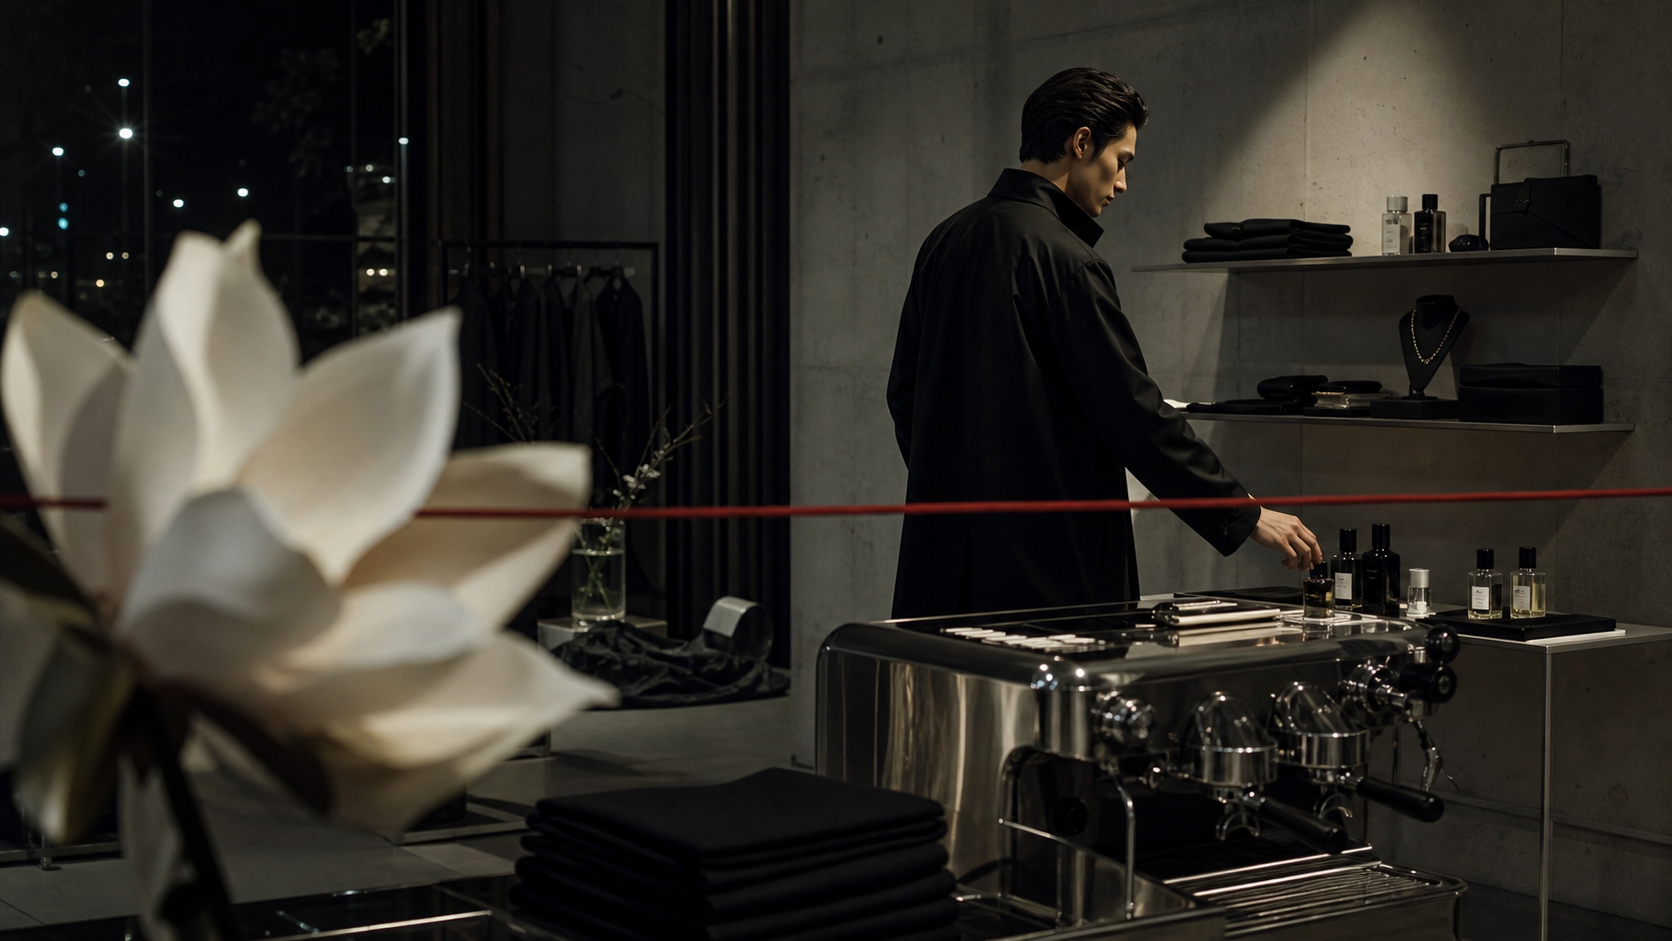
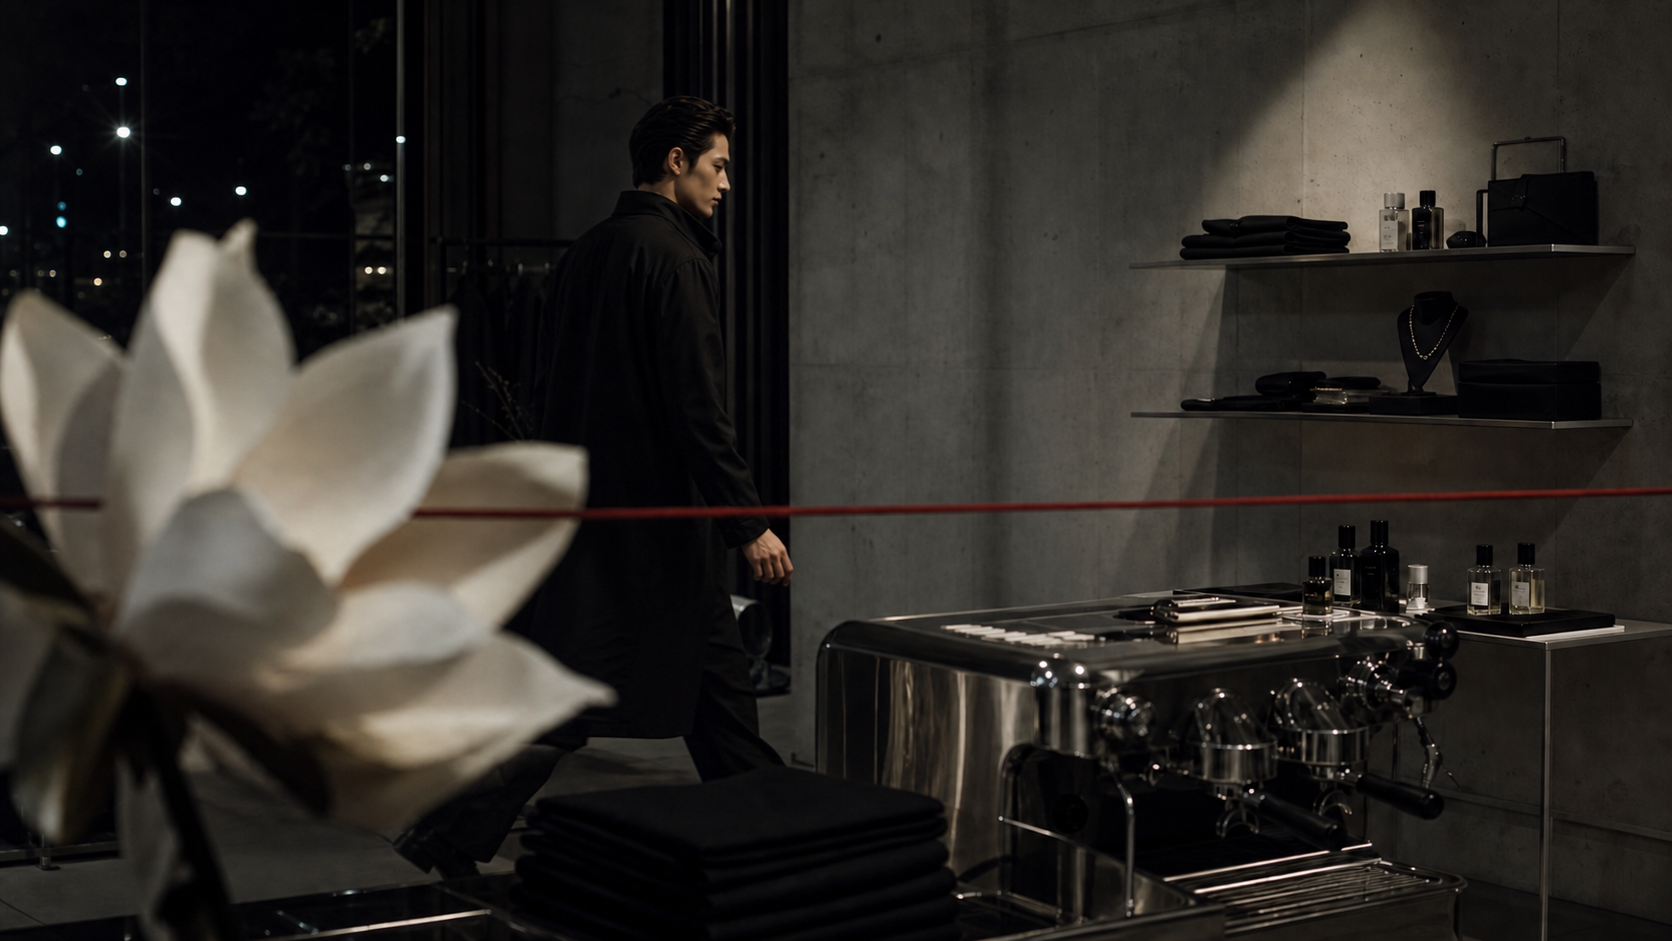
Refine hero scale and motion reel

diff --git a/src/app/globals.css b/src/app/globals.css
@@ -205,28 +205,28 @@ a {
 }
 
 .kf-hero-bottom h1 {
-  max-width: 1280px;
+  max-width: 980px;
   color: #d8ff3e;
   font-family: "Space Grotesk", sans-serif;
-  font-size: clamp(4.6rem, 11.7vw, 13.5rem);
+  font-size: clamp(3.8rem, 7.9vw, 8.8rem);
   font-weight: 800;
-  letter-spacing: -0.08em;
-  line-height: 0.76;
+  letter-spacing: -0.065em;
+  line-height: 0.84;
   text-transform: uppercase;
 }
 
 .kf-hero-actions {
   display: grid;
-  grid-template-columns: minmax(0, 34rem) auto;
+  grid-template-columns: minmax(0, 31rem) auto;
   gap: 1rem;
   align-items: end;
-  margin-top: clamp(1rem, 2vw, 1.35rem);
+  margin-top: clamp(0.75rem, 1.4vw, 1rem);
 }
 
 .kf-hero-actions p {
   margin: 0;
   color: rgb(245 241 232 / 0.82);
-  font-size: clamp(1rem, 1.4vw, 1.28rem);
+  font-size: clamp(0.95rem, 1.18vw, 1.08rem);
   font-weight: 600;
   line-height: 1.35;
 }
@@ -852,7 +852,7 @@ a {
   }
 
   .kf-hero-video {
-    object-position: 57% center;
+    object-position: 43% center;
   }
 
   .kf-hero-meta span:nth-child(3) {
@@ -860,8 +860,8 @@ a {
   }
 
   .kf-hero-bottom h1 {
-    font-size: clamp(4.15rem, 19vw, 5.8rem);
-    line-height: 0.78;
+    font-size: clamp(3.05rem, 14vw, 4.35rem);
+    line-height: 0.88;
   }
 
   .kf-hero-actions > div {

diff --git a/src/app/page.tsx b/src/app/page.tsx
@@ -174,7 +174,7 @@ function Hero() {
         </div>
 
         <div className="kf-hero-bottom">
-          <h1>Video Creative Lab</h1>
+          <h1>AI Video Lab</h1>
           <div className="kf-hero-actions">
             <p>
               Один оффер превращаем в серию роликов, хуков, подписей и страницу выдачи. Это можно показать клиенту до продажи пакета.